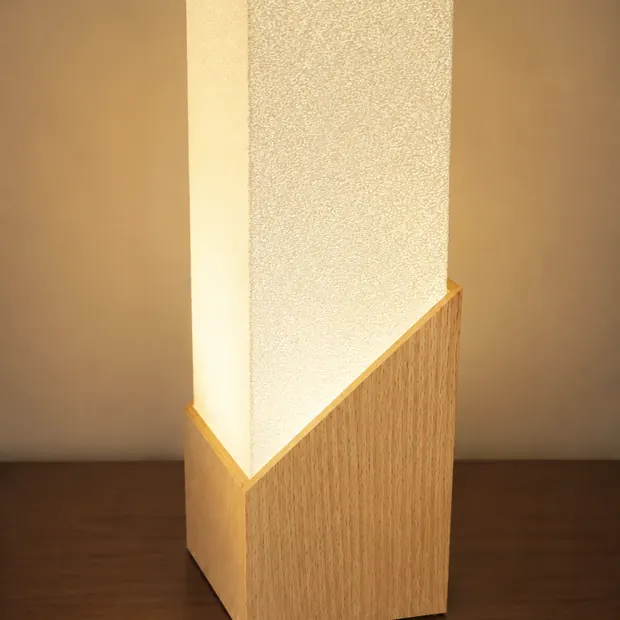
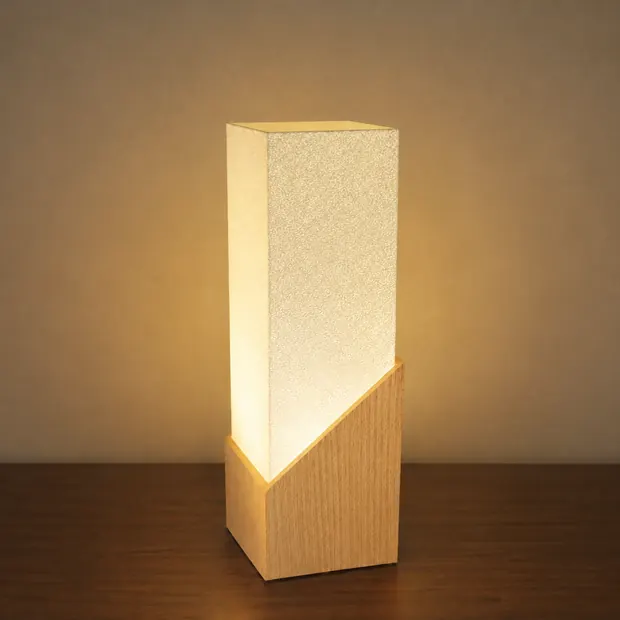
Filtradas

diff --git a/modelos.html b/modelos.html
@@ -4,9 +4,10 @@
 <meta charset="utf-8">
 <meta name="viewport" content="width=device-width,initial-scale=1">
 <title>Modelos — NASTA</title>
-<meta name="description" content="Los veinticinco modelos de NASTA, filtrables por familia.">
+<meta name="description" content="Los veinte modelos de NASTA, filtrables por familia.">
 <link rel="icon" href="favicon.svg" type="image/svg+xml">
 <link rel="stylesheet" href="estilo.css">
+<script src="todos.js" defer></script>
 <script src="filtro.js" defer></script>
 </head>
 <body>
@@ -43,7 +44,7 @@
 <main class="bloque">
   <div class="centro">
     <div class="bloque__intro">
-      <h2>Veinticinco modelos</h2>
+      <h2><span data-todos="Veinticinco">Veinte</span> modelos</h2>
       <p>Todas de sobremesa. Están agrupadas por lo que hace la pieza: las blandas,
          las de patrón calado, las de planos rectos y las que la madera curvada
          define. Elegí una familia para ver sólo esa.</p>
@@ -55,7 +56,7 @@
         <button type="button" data-linea="geometricas" aria-pressed="false">Geométricas</button>
         <button type="button" data-linea="arquitectonicas" aria-pressed="false">Arquitectónicas</button>
         <button type="button" data-linea="autor" aria-pressed="false">De autor</button>
-      <span class="filtro__cuenta" aria-live="polite">25 modelos</span>
+      <span class="filtro__cuenta" aria-live="polite">20 modelos</span>
     </div>
 
     <div class="grilla">
@@ -109,17 +110,17 @@
           <h3>Boyero</h3>
           <p>12 × 17 cm. $ 344.900</p>
         </a>
-        <a class="modelo" data-linea="organicas" href="modelo/doradito.html">
+        <a class="modelo" data-linea="organicas" data-oculto href="modelo/doradito.html">
           <span class="modelo__caja modelo__caja--foto"><img src="imagenes/modelos/doradito.webp" alt="Doradito" width="620" height="620" loading="lazy"></span>
           <h3>Doradito</h3>
           <p>12 × 18 cm. $ 331.200</p>
         </a>
-        <a class="modelo" data-linea="arquitectonicas" href="modelo/chaja.html">
+        <a class="modelo" data-linea="arquitectonicas" data-oculto href="modelo/chaja.html">
           <span class="modelo__caja modelo__caja--foto"><img src="imagenes/modelos/chaja.webp" alt="Chajá" width="620" height="620" loading="lazy"></span>
           <h3>Chajá</h3>
           <p>18 × 13 cm. $ 318.600</p>
         </a>
-        <a class="modelo" data-linea="organicas" href="modelo/chingolo.html">
+        <a class="modelo" data-linea="organicas" data-oculto href="modelo/chingolo.html">
           <span class="modelo__caja modelo__caja--foto"><img src="imagenes/modelos/chingolo.webp" alt="Chingolo" width="620" height="620" loading="lazy"></span>
           <h3>Chingolo</h3>
           <p>13 × 14 cm. $ 297.400</p>
@@ -149,7 +150,7 @@
           <h3>Federal</h3>
           <p>15 × 14 cm. $ 232.600</p>
         </a>
-        <a class="modelo" data-linea="geometricas" href="modelo/cardenal.html">
+        <a class="modelo" data-linea="geometricas" data-oculto href="modelo/cardenal.html">
           <span class="modelo__caja modelo__caja--foto"><img src="imagenes/modelos/cardenal.webp" alt="Cardenal" width="620" height="620" loading="lazy"></span>
           <h3>Cardenal</h3>
           <p>11 × 16 cm. $ 219.300</p>
@@ -159,7 +160,7 @@
           <h3>Benteveo</h3>
           <p>14 × 17 cm. $ 207.700</p>
         </a>
-        <a class="modelo" data-linea="arquitectonicas" href="modelo/chivi.html">
+        <a class="modelo" data-linea="arquitectonicas" data-oculto href="modelo/chivi.html">
           <span class="modelo__caja modelo__caja--foto"><img src="imagenes/modelos/chivi.webp" alt="Chiví" width="620" height="620" loading="lazy"></span>
           <h3>Chiví</h3>
           <p>10 × 18 cm. $ 194.400</p>

diff --git a/index.html b/index.html
@@ -7,6 +7,7 @@
 <meta name="description" content="Catálogo de lámparas de sobremesa: pantalla impresa en 3D sobre madera recuperada.">
 <link rel="icon" href="favicon.svg" type="image/svg+xml">
 <link rel="stylesheet" href="estilo.css">
+<script src="todos.js" defer></script>
 </head>
 <body>
 
@@ -53,7 +54,7 @@
         <h2>Cuatro familias</h2>
         <p>Todas las lámparas son de sobremesa: una pantalla impresa arriba y la
            madera abajo. Lo que cambia entre familias es qué hace la pieza, no de
-           qué está hecha. Veinticinco modelos en guatambú, fresno o haya.</p>
+           qué está hecha. <span data-todos="Veinticinco">Veinte</span> modelos en guatambú, fresno o haya.</p>
       </div>
       <div class="grilla grilla--lineas">
         <a class="modelo" href="modelos.html#organicas">
@@ -77,7 +78,7 @@
           <p>Un aro que abraza, un voladizo, un brazo. Acá la madera hace de estructura.</p>
         </a>
       </div>
-      <p class="bloque__mas"><a href="modelos.html">Ver los veinticinco modelos</a></p>
+      <p class="bloque__mas"><a href="modelos.html">Ver los <span data-todos="veinticinco">veinte</span> modelos</a></p>
     </div>
   </section>
 

diff --git a/index1.html b/index1.html
@@ -7,6 +7,7 @@
 <meta name="description" content="Catálogo de lámparas de sobremesa: pantalla impresa en 3D sobre madera recuperada.">
 <link rel="icon" href="favicon.svg" type="image/svg+xml">
 <link rel="stylesheet" href="estilo.css">
+<script src="todos.js" defer></script>
 </head>
 <body>
 
@@ -37,7 +38,7 @@
         <h2>Cuatro familias</h2>
         <p>Todas las lámparas son de sobremesa: una pantalla impresa arriba y la
            madera abajo. Lo que cambia entre familias es qué hace la pieza, no de
-           qué está hecha. Veinticinco modelos en guatambú, fresno o haya.</p>
+           qué está hecha. <span data-todos="Veinticinco">Veinte</span> modelos en guatambú, fresno o haya.</p>
       </div>
       <div class="grilla grilla--lineas">
         <a class="modelo" href="modelos.html#organicas">
@@ -61,7 +62,7 @@
           <p>Un aro que abraza, un voladizo, un brazo. Acá la madera hace de estructura.</p>
         </a>
       </div>
-      <p class="bloque__mas"><a href="modelos.html">Ver los veinticinco modelos</a></p>
+      <p class="bloque__mas"><a href="modelos.html">Ver los <span data-todos="veinticinco">veinte</span> modelos</a></p>
     </div>
   </section>
 

diff --git a/index2.html b/index2.html
@@ -7,6 +7,7 @@
 <meta name="description" content="Catálogo de lámparas de sobremesa: pantalla impresa en 3D sobre madera recuperada.">
 <link rel="icon" href="favicon.svg" type="image/svg+xml">
 <link rel="stylesheet" href="estilo.css">
+<script src="todos.js" defer></script>
 </head>
 <body>
 
@@ -37,7 +38,7 @@
         <h2>Cuatro familias</h2>
         <p>Todas las lámparas son de sobremesa: una pantalla impresa arriba y la
            madera abajo. Lo que cambia entre familias es qué hace la pieza, no de
-           qué está hecha. Veinticinco modelos en guatambú, fresno o haya.</p>
+           qué está hecha. <span data-todos="Veinticinco">Veinte</span> modelos en guatambú, fresno o haya.</p>
       </div>
       <div class="grilla grilla--lineas">
         <a class="modelo" href="modelos.html#organicas">
@@ -61,7 +62,7 @@
           <p>Un aro que abraza, un voladizo, un brazo. Acá la madera hace de estructura.</p>
         </a>
       </div>
-      <p class="bloque__mas"><a href="modelos.html">Ver los veinticinco modelos</a></p>
+      <p class="bloque__mas"><a href="modelos.html">Ver los <span data-todos="veinticinco">veinte</span> modelos</a></p>
     </div>
   </section>
 

diff --git a/index3.html b/index3.html
@@ -7,6 +7,7 @@
 <meta name="description" content="Catálogo de lámparas de sobremesa: pantalla impresa en 3D sobre madera recuperada.">
 <link rel="icon" href="favicon.svg" type="image/svg+xml">
 <link rel="stylesheet" href="estilo.css">
+<script src="todos.js" defer></script>
 </head>
 <body>
 
@@ -53,7 +54,7 @@
         <h2>Cuatro familias</h2>
         <p>Todas las lámparas son de sobremesa: una pantalla impresa arriba y la
            madera abajo. Lo que cambia entre familias es qué hace la pieza, no de
-           qué está hecha. Veinticinco modelos en guatambú, fresno o haya.</p>
+           qué está hecha. <span data-todos="Veinticinco">Veinte</span> modelos en guatambú, fresno o haya.</p>
       </div>
       <div class="grilla grilla--lineas">
         <a class="modelo" href="modelos.html#organicas">
@@ -77,7 +78,7 @@
           <p>Un aro que abraza, un voladizo, un brazo. Acá la madera hace de estructura.</p>
         </a>
       </div>
-      <p class="bloque__mas"><a href="modelos.html">Ver los veinticinco modelos</a></p>
+      <p class="bloque__mas"><a href="modelos.html">Ver los <span data-todos="veinticinco">veinte</span> modelos</a></p>
     </div>
   </section>
 

diff --git a/modelo/chaja.html b/modelo/chaja.html
@@ -7,6 +7,7 @@
 <meta name="description" content="Chajá, lámpara de sobremesa. 18 × 13 cm. Pantalla impresa en PLA. Base de guatambú recuperado.">
 <link rel="icon" href="../favicon.svg" type="image/svg+xml">
 <link rel="stylesheet" href="../estilo.css">
+<script src="../todos.js" defer></script>
 </head>
 <body>
 
@@ -61,9 +62,9 @@
 
   <div class="centro">
     <nav class="vecinas" aria-label="Otras lámparas">
-      <a href="doradito.html">Antes, Doradito</a>
-      <a class="vecinas__todas" href="../modelos.html">Los veinticinco modelos</a>
-      <a href="chingolo.html">Después, Chingolo</a>
+      <a href="boyero.html" data-todos-href="doradito.html" data-todos="Antes, Doradito">Antes, Boyero</a>
+      <a class="vecinas__todas" href="../modelos.html">Los <span data-todos="veinticinco">veinte</span> modelos</a>
+      <a href="monjita.html" data-todos-href="chingolo.html" data-todos="Después, Chingolo">Después, Monjita</a>
     </nav>
   </div>
 </main>

diff --git a/filtro.js b/filtro.js
@@ -1,7 +1,11 @@
 (() => {
   const grilla = document.querySelector(".grilla");
   if (!grilla) return;
-  const tarjetas = [...grilla.querySelectorAll(".modelo")];
+  // Las ocultas las esconde el CSS por [data-oculto]; con ?todos se les saca el
+  // atributo y vuelven al juego como una más.
+  const todas = [...grilla.querySelectorAll(".modelo")];
+  if (window.TODOS) for (const t of todas) t.removeAttribute("data-oculto");
+  const tarjetas = todas.filter((t) => !t.hasAttribute("data-oculto"));
   const botones = [...document.querySelectorAll(".filtro button")];
   const cuenta = document.querySelector(".filtro__cuenta");
   const quieto = matchMedia("(prefers-reduced-motion: reduce)");
@@ -26,7 +30,7 @@
     else aplicar(linea);
     if (historia)
       history.replaceState(null, "",
-        linea === "todas" ? location.pathname : "#" + linea);
+        linea === "todas" ? location.pathname + location.search : "#" + linea);
   };
 
   botones.forEach((b) =>

diff --git a/modelo/benteveo.html b/modelo/benteveo.html
@@ -7,6 +7,7 @@
 <meta name="description" content="Benteveo, lámpara de sobremesa. 14 × 17 cm. Pantalla impresa en PLA. Base de fresno recuperado.">
 <link rel="icon" href="../favicon.svg" type="image/svg+xml">
 <link rel="stylesheet" href="../estilo.css">
+<script src="../todos.js" defer></script>
 </head>
 <body>
 
@@ -61,9 +62,9 @@
 
   <div class="centro">
     <nav class="vecinas" aria-label="Otras lámparas">
-      <a href="cardenal.html">Antes, Cardenal</a>
-      <a class="vecinas__todas" href="../modelos.html">Los veinticinco modelos</a>
-      <a href="chivi.html">Después, Chiví</a>
+      <a href="federal.html" data-todos-href="cardenal.html" data-todos="Antes, Cardenal">Antes, Federal</a>
+      <a class="vecinas__todas" href="../modelos.html">Los <span data-todos="veinticinco">veinte</span> modelos</a>
+      <a href="zorzal.html" data-todos-href="chivi.html" data-todos="Después, Chiví">Después, Zorzal</a>
     </nav>
   </div>
 </main>

diff --git a/modelo/federal.html b/modelo/federal.html
@@ -7,6 +7,7 @@
 <meta name="description" content="Federal, lámpara de sobremesa. 15 × 14 cm. Pantalla impresa en PLA. Base de guatambú recuperado.">
 <link rel="icon" href="../favicon.svg" type="image/svg+xml">
 <link rel="stylesheet" href="../estilo.css">
+<script src="../todos.js" defer></script>
 </head>
 <body>
 
@@ -62,8 +63,8 @@
   <div class="centro">
     <nav class="vecinas" aria-label="Otras lámparas">
       <a href="jilguero.html">Antes, Jilguero</a>
-      <a class="vecinas__todas" href="../modelos.html">Los veinticinco modelos</a>
-      <a href="cardenal.html">Después, Cardenal</a>
+      <a class="vecinas__todas" href="../modelos.html">Los <span data-todos="veinticinco">veinte</span> modelos</a>
+      <a href="benteveo.html" data-todos-href="cardenal.html" data-todos="Después, Cardenal">Después, Benteveo</a>
     </nav>
   </div>
 </main>

diff --git a/modelo/boyero.html b/modelo/boyero.html
@@ -7,6 +7,7 @@
 <meta name="description" content="Boyero, lámpara de sobremesa. 12 × 17 cm. Pantalla impresa en PLA. Base de fresno recuperado.">
 <link rel="icon" href="../favicon.svg" type="image/svg+xml">
 <link rel="stylesheet" href="../estilo.css">
+<script src="../todos.js" defer></script>
 </head>
 <body>
 
@@ -62,8 +63,8 @@
   <div class="centro">
     <nav class="vecinas" aria-label="Otras lámparas">
       <a href="tacuarita.html">Antes, Tacuarita</a>
-      <a class="vecinas__todas" href="../modelos.html">Los veinticinco modelos</a>
-      <a href="doradito.html">Después, Doradito</a>
+      <a class="vecinas__todas" href="../modelos.html">Los <span data-todos="veinticinco">veinte</span> modelos</a>
+      <a href="monjita.html" data-todos-href="doradito.html" data-todos="Después, Doradito">Después, Monjita</a>
     </nav>
   </div>
 </main>

diff --git a/modelo/doradito.html b/modelo/doradito.html
@@ -7,6 +7,7 @@
 <meta name="description" content="Doradito, lámpara de sobremesa. 12 × 18 cm. Pantalla impresa en PLA. Base de fresno recuperado.">
 <link rel="icon" href="../favicon.svg" type="image/svg+xml">
 <link rel="stylesheet" href="../estilo.css">
+<script src="../todos.js" defer></script>
 </head>
 <body>
 
@@ -62,8 +63,8 @@
   <div class="centro">
     <nav class="vecinas" aria-label="Otras lámparas">
       <a href="boyero.html">Antes, Boyero</a>
-      <a class="vecinas__todas" href="../modelos.html">Los veinticinco modelos</a>
-      <a href="chaja.html">Después, Chajá</a>
+      <a class="vecinas__todas" href="../modelos.html">Los <span data-todos="veinticinco">veinte</span> modelos</a>
+      <a href="monjita.html" data-todos-href="chaja.html" data-todos="Después, Chajá">Después, Monjita</a>
     </nav>
   </div>
 </main>

diff --git a/modelo/monjita.html b/modelo/monjita.html
@@ -7,6 +7,7 @@
 <meta name="description" content="Monjita, lámpara de sobremesa. 12 × 16 cm. Pantalla impresa en PLA. Base de haya recuperada.">
 <link rel="icon" href="../favicon.svg" type="image/svg+xml">
 <link rel="stylesheet" href="../estilo.css">
+<script src="../todos.js" defer></script>
 </head>
 <body>
 
@@ -61,8 +62,8 @@
 
   <div class="centro">
     <nav class="vecinas" aria-label="Otras lámparas">
-      <a href="chingolo.html">Antes, Chingolo</a>
-      <a class="vecinas__todas" href="../modelos.html">Los veinticinco modelos</a>
+      <a href="boyero.html" data-todos-href="chingolo.html" data-todos="Antes, Chingolo">Antes, Boyero</a>
+      <a class="vecinas__todas" href="../modelos.html">Los <span data-todos="veinticinco">veinte</span> modelos</a>
       <a href="tero.html">Después, Tero</a>
     </nav>
   </div>
